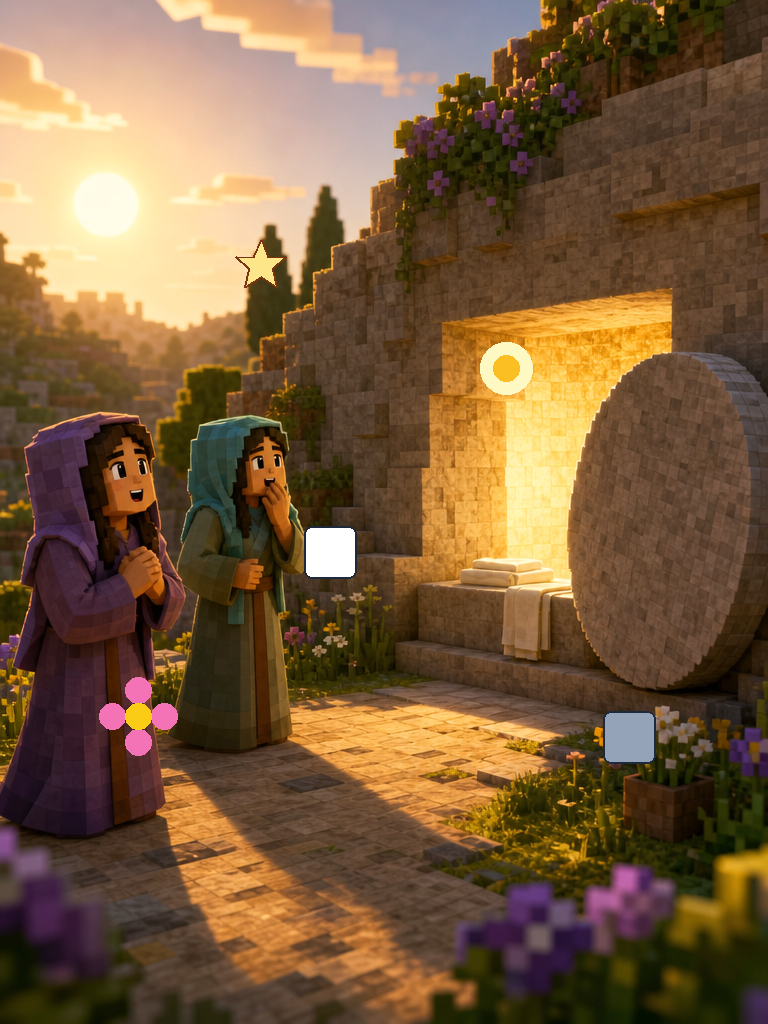
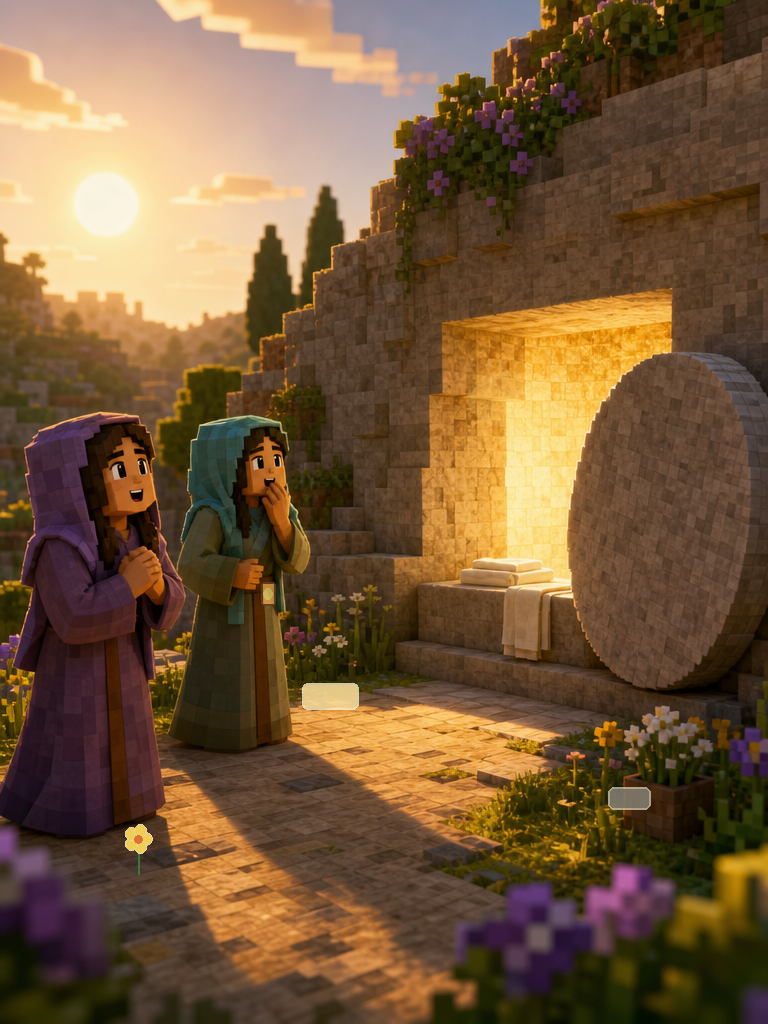
Replace spot-difference marker overlays with scene changes

diff --git a/app/games/spot-the-difference/page.tsx b/app/games/spot-the-difference/page.tsx
@@ -53,14 +53,15 @@ const SCENES: Scene[] = [
     leftLabel: 'Before the miracle', leftLabelRu: 'До чуда',
     rightLabel: 'After the miracle',  rightLabelRu: 'После чуда',
     hotspots: [
-      { id: 1, x: 22, y: 55, r: 8, side: 'right' },
-      { id: 2, x: 50, y: 42, r: 8, side: 'right' },
-      { id: 3, x: 74, y: 60, r: 8, side: 'right' },
-      { id: 4, x: 35, y: 25, r: 8, side: 'right' },
-      { id: 5, x: 62, y: 78, r: 8, side: 'right' },
+      { id: 1, x: 22, y: 60, r: 8, side: 'right' },
+      { id: 2, x: 49, y: 74, r: 8, side: 'right' },
+      { id: 3, x: 75, y: 69, r: 8, side: 'right' },
+      { id: 4, x: 83, y: 24, r: 8, side: 'right' },
+      { id: 5, x: 36, y: 86, r: 8, side: 'right' },
+
     ],
-    diffs: ['Jar colour changed from grey to red', 'Servant\'s expression changed to smile', 'Third jar is now full', 'Star appeared in sky', 'Flowers bloomed on table'],
-    diffsRu: ['Цвет кувшина изменился с серого на красный', 'Слуга улыбается', 'Третий кувшин полный', 'Звезда появилась на небе', 'Цветы расцвели на столе'],
+    diffs: ['One jar changed color', 'Table cloth appeared', 'Fruit appeared on the table', 'Lantern glows brighter', 'New flower bloomed near the jars'],
+    diffsRu: ['Один кувшин изменил цвет', 'Появилась скатерть', 'На столе появились фрукты', 'Фонарь светит ярче', 'Новый цветок расцвёл у сосудов'],
   },
   {
     id: 'feeding-5000',
@@ -76,14 +77,15 @@ const SCENES: Scene[] = [
     leftLabel: '5 loaves, 2 fish',  leftLabelRu: '5 хлебов, 2 рыбы',
     rightLabel: '12 baskets remain', rightLabelRu: '12 корзин осталось',
     hotspots: [
-      { id: 1, x: 18, y: 65, r: 8, side: 'right' },
-      { id: 2, x: 45, y: 50, r: 8, side: 'right' },
-      { id: 3, x: 70, y: 55, r: 8, side: 'right' },
-      { id: 4, x: 30, y: 30, r: 8, side: 'right' },
-      { id: 5, x: 58, y: 80, r: 8, side: 'right' },
+      { id: 1, x: 19, y: 80, r: 8, side: 'right' },
+      { id: 2, x: 45, y: 63, r: 8, side: 'right' },
+      { id: 3, x: 59, y: 64, r: 8, side: 'right' },
+      { id: 4, x: 31, y: 88, r: 8, side: 'right' },
+      { id: 5, x: 78, y: 66, r: 8, side: 'right' },
+
     ],
-    diffs: ['Baskets are now full', 'Boy\'s expression changed to wonder', 'Crowd grew larger', 'Extra fish appeared', 'Sun is setting (golden sky)'],
-    diffsRu: ['Корзины теперь полные', 'Мальчик удивлён', 'Толпа стала больше', 'Появилась ещё рыба', 'Солнце садится (золотое небо)'],
+    diffs: ['Extra basket appeared', 'Extra loaf appeared', 'Extra fish appeared', 'New flower bloomed', 'Jesus’ robe has a warmer patch of light'],
+    diffsRu: ['Появилась ещё одна корзина', 'Появился ещё один хлеб', 'Появилась ещё одна рыба', 'Расцвёл новый цветок', 'На одежде Иисуса появился тёплый свет'],
   },
   {
     id: 'calm-storm',
@@ -99,14 +101,15 @@ const SCENES: Scene[] = [
     leftLabel: 'Wild storm',  leftLabelRu: 'Бурное море',
     rightLabel: 'Perfectly still', rightLabelRu: 'Полный штиль',
     hotspots: [
-      { id: 1, x: 20, y: 35, r: 8, side: 'right' },
-      { id: 2, x: 50, y: 55, r: 8, side: 'right' },
-      { id: 3, x: 75, y: 40, r: 8, side: 'right' },
-      { id: 4, x: 38, y: 72, r: 8, side: 'right' },
-      { id: 5, x: 65, y: 22, r: 8, side: 'right' },
+      { id: 1, x: 51, y: 33, r: 8, side: 'right' },
+      { id: 2, x: 75, y: 45, r: 8, side: 'right' },
+      { id: 3, x: 17, y: 62, r: 8, side: 'right' },
+      { id: 4, x: 43, y: 82, r: 8, side: 'right' },
+      { id: 5, x: 64, y: 76, r: 8, side: 'right' },
+
     ],
-    diffs: ['Dark clouds replaced by stars', 'Waves flattened to calm water', 'Sail is no longer torn', 'Disciples\' faces changed from fear to awe', 'Moon appeared'],
-    diffsRu: ['Тучи сменились звёздами', 'Волны стихли', 'Парус больше не порван', 'Лица учеников — вместо страха изумление', 'Появилась луна'],
+    diffs: ['Light grew brighter near Jesus', 'Sail cloth changed', 'Lantern became brighter', 'Small stone appeared in the boat', 'Fish appeared near the water'],
+    diffsRu: ['Свет возле Иисуса стал ярче', 'Парус изменился', 'Фонарь стал ярче', 'В лодке появился маленький камень', 'У воды появилась рыбка'],
   },
   {
     id: 'zacchaeus',
@@ -122,14 +125,15 @@ const SCENES: Scene[] = [
     leftLabel: 'Zacchaeus hiding',   leftLabelRu: 'Закхей прячется',
     rightLabel: 'Zacchaeus changed', rightLabelRu: 'Закхей изменился',
     hotspots: [
-      { id: 1, x: 25, y: 40, r: 8, side: 'right' },
-      { id: 2, x: 55, y: 58, r: 8, side: 'right' },
-      { id: 3, x: 72, y: 30, r: 8, side: 'right' },
-      { id: 4, x: 40, y: 75, r: 8, side: 'right' },
-      { id: 5, x: 15, y: 65, r: 8, side: 'right' },
+      { id: 1, x: 24, y: 27, r: 8, side: 'right' },
+      { id: 2, x: 51, y: 43, r: 8, side: 'right' },
+      { id: 3, x: 64, y: 75, r: 8, side: 'right' },
+      { id: 4, x: 39, y: 86, r: 8, side: 'right' },
+      { id: 5, x: 82, y: 62, r: 8, side: 'right' },
+
     ],
-    diffs: ['Zacchaeus is climbing down (not hiding)', 'Crowd expression changed to welcome', 'Coins on ground (giving back)', 'Tree now has fruit', 'Jesus is looking up with a smile'],
-    diffsRu: ['Закхей слезает (не прячется)', 'Толпа встречает его', 'Монеты на земле (возврат)', 'На дереве появились плоды', 'Иисус смотрит вверх с улыбкой'],
+    diffs: ['Fruit appeared in the tree', 'New leaf appeared', 'Coins appeared on the road', 'New flower bloomed', 'Small cloth appeared near the wall'],
+    diffsRu: ['На дереве появились плоды', 'Появился новый лист', 'На дороге появились монеты', 'Расцвёл новый цветок', 'У стены появилась маленькая ткань'],
   },
 
   {
@@ -146,14 +150,15 @@ const SCENES: Scene[] = [
     leftLabel: 'Someone needs help', leftLabelRu: 'Кому-то нужна помощь',
     rightLabel: 'Mercy shown', rightLabelRu: 'Милость показана',
     hotspots: [
-      { id: 1, x: 18, y: 62, r: 8, side: 'right' },
-      { id: 2, x: 40, y: 70, r: 8, side: 'right' },
-      { id: 3, x: 62, y: 48, r: 8, side: 'right' },
-      { id: 4, x: 76, y: 24, r: 8, side: 'right' },
-      { id: 5, x: 30, y: 35, r: 8, side: 'right' },
+      { id: 1, x: 18, y: 86, r: 8, side: 'right' },
+      { id: 2, x: 42, y: 69, r: 8, side: 'right' },
+      { id: 3, x: 72, y: 82, r: 8, side: 'right' },
+      { id: 4, x: 33, y: 88, r: 8, side: 'right' },
+      { id: 5, x: 63, y: 43, r: 8, side: 'right' },
+
     ],
-    diffs: ['Coin pouch appeared for the innkeeper', 'Bandage became brighter', 'Heart of mercy appeared', 'Star appeared above the road', 'Flower bloomed beside the path'],
-    diffsRu: ['Появился мешочек монет для гостиницы', 'Повязка стала светлее', 'Появилось сердце милости', 'Звезда появилась над дорогой', 'Цветок расцвёл у пути'],
+    diffs: ['Coins appeared by the road', 'Bandage cloth became brighter', 'Small basket appeared', 'New flower bloomed', 'Small lantern appeared'],
+    diffsRu: ['У дороги появились монеты', 'Повязка стала светлее', 'Появилась маленькая корзина', 'Расцвёл новый цветок', 'Появился маленький фонарь'],
   },
   {
     id: 'lost-sheep',
@@ -169,14 +174,15 @@ const SCENES: Scene[] = [
     leftLabel: 'Searching', leftLabelRu: 'Поиск',
     rightLabel: 'Found and safe', rightLabelRu: 'Найдена и в безопасности',
     hotspots: [
-      { id: 1, x: 22, y: 72, r: 8, side: 'right' },
-      { id: 2, x: 46, y: 38, r: 8, side: 'right' },
-      { id: 3, x: 67, y: 58, r: 8, side: 'right' },
-      { id: 4, x: 80, y: 28, r: 8, side: 'right' },
-      { id: 5, x: 34, y: 24, r: 8, side: 'right' },
+      { id: 1, x: 21, y: 87, r: 8, side: 'right' },
+      { id: 2, x: 46, y: 55, r: 8, side: 'right' },
+      { id: 3, x: 69, y: 77, r: 8, side: 'right' },
+      { id: 4, x: 80, y: 37, r: 8, side: 'right' },
+      { id: 5, x: 33, y: 31, r: 8, side: 'right' },
+
     ],
-    diffs: ['Flower appeared in the grass', 'Heart appeared near the shepherd', 'Golden bell appeared by the sheep', 'Star appeared in the sky', 'Sunlight grew warmer'],
-    diffsRu: ['В траве появился цветок', 'Сердце появилось рядом с пастухом', 'Золотой колокольчик появился у овцы', 'Звезда появилась в небе', 'Свет стал теплее'],
+    diffs: ['New flower bloomed', 'Shepherd cloth changed', 'Small basket appeared', 'New leaf appeared', 'Sunlight grew warmer'],
+    diffsRu: ['Расцвёл новый цветок', 'Одежда пастуха изменилась', 'Появилась маленькая корзина', 'Появился новый лист', 'Солнечный свет стал теплее'],
   },
   {
     id: 'daniel-lions',
@@ -192,14 +198,15 @@ const SCENES: Scene[] = [
     leftLabel: 'The den', leftLabelRu: 'Ров',
     rightLabel: 'God protected', rightLabelRu: 'Бог защитил',
     hotspots: [
-      { id: 1, x: 25, y: 58, r: 8, side: 'right' },
-      { id: 2, x: 50, y: 26, r: 8, side: 'right' },
+      { id: 1, x: 24, y: 77, r: 8, side: 'right' },
+      { id: 2, x: 51, y: 21, r: 8, side: 'right' },
       { id: 3, x: 72, y: 66, r: 8, side: 'right' },
-      { id: 4, x: 38, y: 78, r: 8, side: 'right' },
-      { id: 5, x: 64, y: 42, r: 8, side: 'right' },
+      { id: 4, x: 39, y: 86, r: 8, side: 'right' },
+      { id: 5, x: 64, y: 44, r: 8, side: 'right' },
+
     ],
-    diffs: ['Lion paw mark appeared', 'Light grew brighter above Daniel', 'Heart of trust appeared', 'Stone marker appeared', 'Star appeared near the lion'],
-    diffsRu: ['Появился след львиной лапы', 'Свет над Даниилом стал ярче', 'Появилось сердце доверия', 'Появился камень-метка', 'Звезда появилась рядом со львом'],
+    diffs: ['Small stone appeared', 'Light grew brighter above Daniel', 'Cloth changed near the lion', 'New flower bloomed', 'Small lantern appeared'],
+    diffsRu: ['Появился маленький камень', 'Свет над Даниилом стал ярче', 'Ткань возле льва изменилась', 'Расцвёл новый цветок', 'Появился маленький фонарь'],
   },
   {
     id: 'empty-tomb',
@@ -215,14 +222,15 @@ const SCENES: Scene[] = [
     leftLabel: 'Early morning', leftLabelRu: 'Раннее утро',
     rightLabel: 'He is risen', rightLabelRu: 'Он воскрес',
     hotspots: [
-      { id: 1, x: 18, y: 70, r: 8, side: 'right' },
-      { id: 2, x: 43, y: 54, r: 8, side: 'right' },
-      { id: 3, x: 66, y: 36, r: 8, side: 'right' },
-      { id: 4, x: 82, y: 72, r: 8, side: 'right' },
-      { id: 5, x: 34, y: 26, r: 8, side: 'right' },
+      { id: 1, x: 18, y: 82, r: 8, side: 'right' },
+      { id: 2, x: 43, y: 68, r: 8, side: 'right' },
+      { id: 3, x: 66, y: 39, r: 8, side: 'right' },
+      { id: 4, x: 82, y: 78, r: 8, side: 'right' },
+      { id: 5, x: 35, y: 58, r: 8, side: 'right' },
+
     ],
-    diffs: ['Garden flower appeared', 'Folded cloth is brighter', 'Resurrection light grew brighter', 'Stone marker appeared', 'Star appeared near the sunrise'],
-    diffsRu: ['В саду появился цветок', 'Пелены стали светлее', 'Свет воскресения стал ярче', 'Появился камень-метка', 'Звезда появилась у рассвета'],
+    diffs: ['New flower bloomed', 'Folded cloth became brighter', 'Tomb light grew brighter', 'Small stone appeared', 'Small lantern appeared'],
+    diffsRu: ['Расцвёл новый цветок', 'Пелены стали светлее', 'Свет у гробницы стал ярче', 'Появился маленький камень', 'Появился маленький фонарь'],
   },
 ]
 
